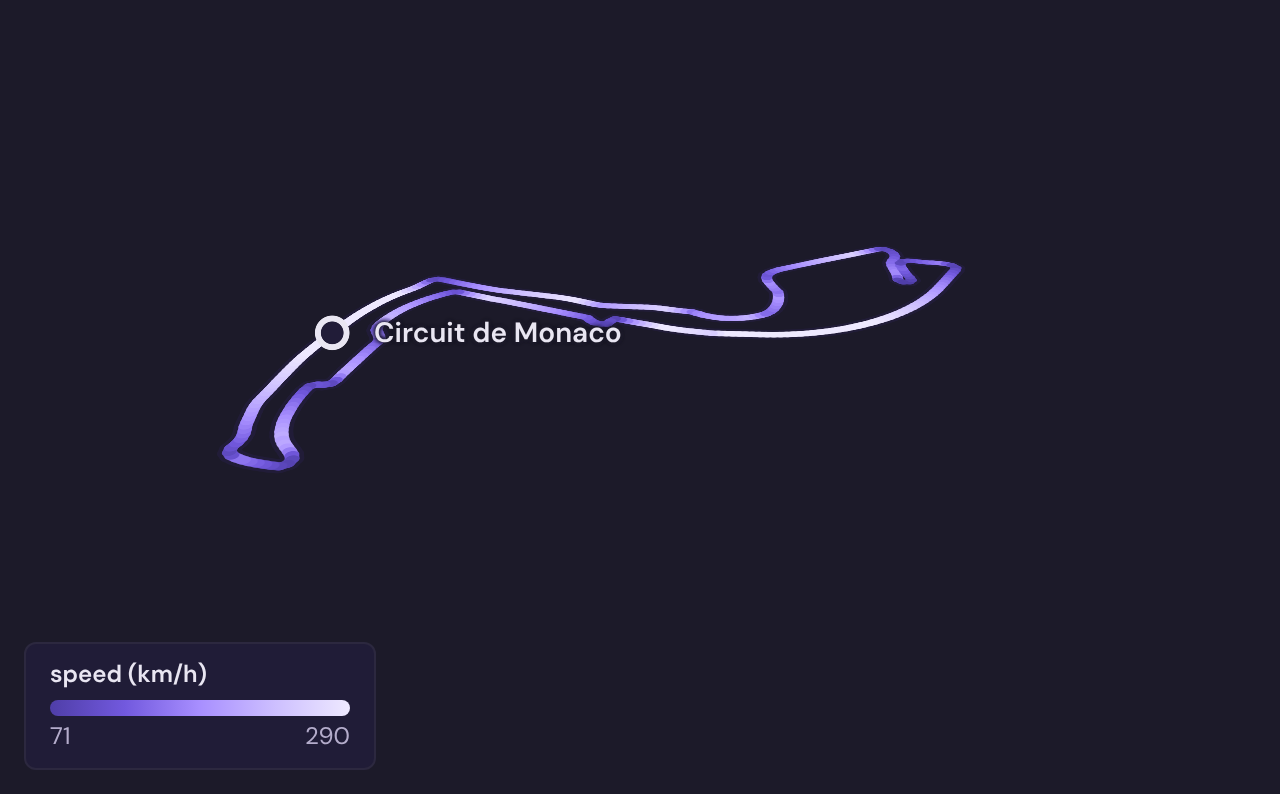
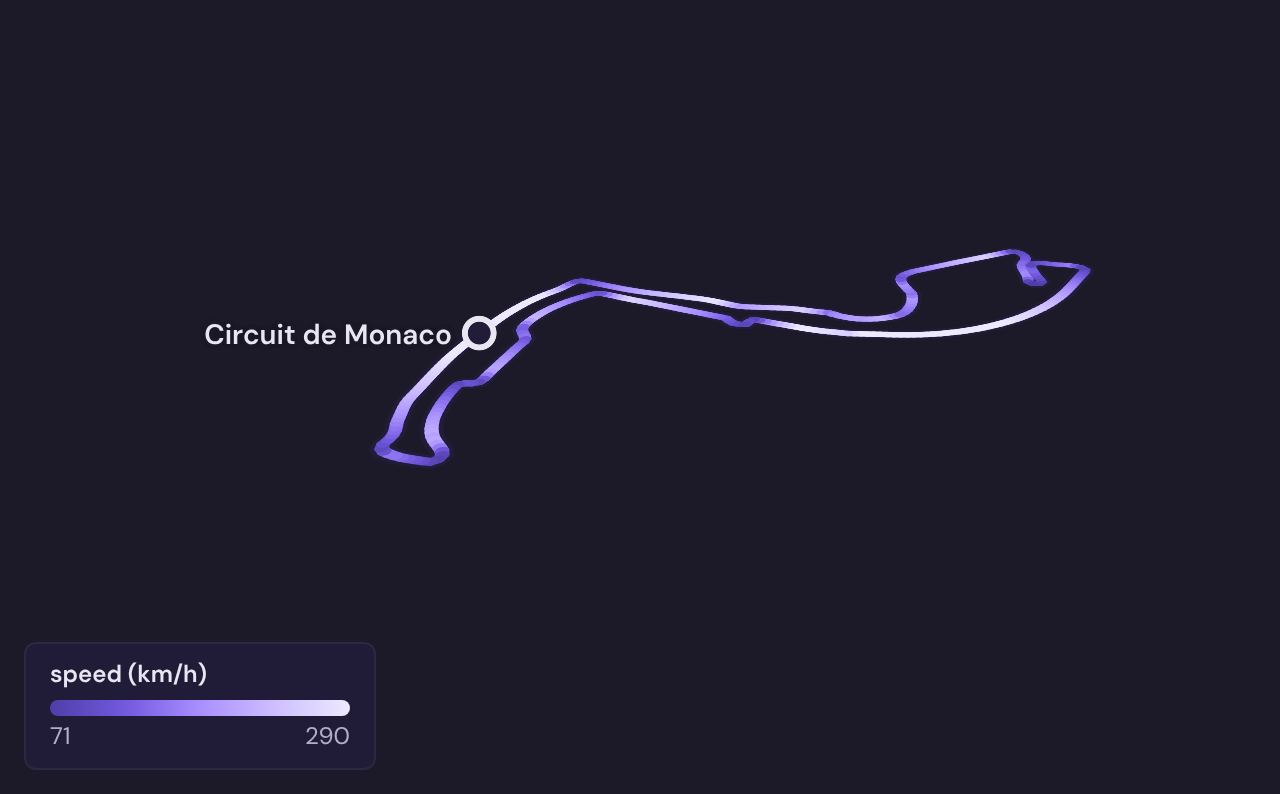
Polish: tooltip clear of the marks, volume label clear of the price axis, path names off the path

Changed region(s): [[0.1562, 0.3023, 0.875, 0.6045]]

diff --git a/src/path-on-map/model.ts b/src/path-on-map/model.ts
@@ -102,10 +102,38 @@ export function colourOf(p: Paths, theme: Theme): (v: number | null | undefined)
 }
 
 type Line = Feature<LineString, { g: number; c: string }>;
-type Start = Feature<Point, { g: number; label: string }>;
+type Start = Feature<Point, { g: number; label: string; anchor: LabelAnchor; offset: [number, number] }>;
+
+export type LabelAnchor = "left" | "right" | "top" | "bottom";
+
+/**
+ * Where a path's name goes beside its start marker: off the path, not on it. The label sits
+ * across the path's direction at the start (it runs along the line there), on the side away
+ * from the middle of all its points (outside a lap's loop, beside a route), in the screen's
+ * axes at the camera's bearing. `offset` is in ems from the start, the way MapLibre's text-offset
+ * reads it (x right, y down); `anchor` is the side of the label that faces the start.
+ */
+export function labelPlacement(points: readonly LonLat[], bearing: number): { anchor: LabelAnchor; offset: [number, number] } {
+  const r = (bearing * Math.PI) / 180;
+  const screen = (p: LonLat) => { const [x, y] = mercator(p); return [x * Math.cos(r) + y * Math.sin(r), -x * Math.sin(r) + y * Math.cos(r)] as const; };
+  const s = points.map(screen);
+  const [x0, y0] = s[0]!;
+  // The direction at the start: towards the first point a little way along (a twentieth of the points, at least the next).
+  const [x1, y1] = s[Math.min(s.length - 1, Math.max(1, Math.floor(s.length / 20)))]!;
+  let [dx, dy] = [x1 - x0, y1 - y0];
+  const len = Math.hypot(dx, dy) || 1;
+  [dx, dy] = [dx / len, dy / len];
+  // Across it, towards the side away from the points' middle.
+  const cx = s.reduce((a, p) => a + p[0], 0) / s.length - x0, cy = s.reduce((a, p) => a + p[1], 0) / s.length - y0;
+  let [nx, ny] = [-dy, dx];
+  if (nx * cx + ny * cy > 0) [nx, ny] = [-nx, -ny];
+  const o = MEASURES.labelOffset;
+  if (Math.abs(nx) >= Math.abs(ny)) return nx > 0 ? { anchor: "left", offset: [o, 0] } : { anchor: "right", offset: [-o, 0] };
+  return ny > 0 ? { anchor: "top", offset: [0, o] } : { anchor: "bottom", offset: [0, -o] };
+}
 
 /** The GeoJSON drawn: one line per segment (consecutive points), coloured by its start point's value; one start per path. */
-export function pathFeatures(p: Paths, theme: Theme): { segments: FeatureCollection<LineString, { g: number; c: string }>; starts: FeatureCollection<Point, { g: number; label: string }> } {
+export function pathFeatures(p: Paths, theme: Theme): { segments: FeatureCollection<LineString, { g: number; c: string }>; starts: FeatureCollection<Point, { g: number; label: string; anchor: LabelAnchor; offset: [number, number] }> } {
   const colour = colourOf(p, theme);
   const segments: Line[] = [];
   const starts: Start[] = [];
@@ -114,7 +142,7 @@ export function pathFeatures(p: Paths, theme: Theme): { segments: FeatureCollect
     for (let i = 1; i < points.length; i++) {
       segments.push({ type: "Feature", properties: { g, c: colour(values?.[i - 1]) }, geometry: { type: "LineString", coordinates: [[...points[i - 1]!], [...points[i]!]] } });
     }
-    starts.push({ type: "Feature", properties: { g, label: path.label ?? "" }, geometry: { type: "Point", coordinates: [...points[0]!] } });
+    starts.push({ type: "Feature", properties: { g, label: path.label ?? "", ...labelPlacement(points, p.options.bearing) }, geometry: { type: "Point", coordinates: [...points[0]!] } });
   });
   return { segments: { type: "FeatureCollection", features: segments }, starts: { type: "FeatureCollection", features: starts } };
 }
@@ -139,7 +167,7 @@ export function pathLayers(theme: Theme, options: PathOptions, labels = true): L
   ];
   if (labels) out.push({
     id: PATH_LAYERS.label, type: "symbol", source: PATH_SOURCES.starts,
-    layout: { "text-field": ["get", "label"], "text-font": [theme.font.map], "text-size": MEASURES.labelSize, "text-anchor": "left", "text-offset": [MEASURES.labelOffset, 0], "text-allow-overlap": true, "text-ignore-placement": false },
+    layout: { "text-field": ["get", "label"], "text-font": [theme.font.map], "text-size": MEASURES.labelSize, "text-anchor": ["get", "anchor"], "text-offset": ["get", "offset"], "text-allow-overlap": true, "text-ignore-placement": false },
     paint: { "text-color": c.ink, "text-halo-color": c.halo, "text-halo-width": MEASURES.labelHalo },
   });
   return out;

diff --git a/src/path-on-map/draw.ts b/src/path-on-map/draw.ts
@@ -9,7 +9,7 @@
 import type { GeoJSONSource, Map as MapLibreMap, Marker as MapLibreMarker } from "maplibre-gl";
 import { validate } from "../validate.ts";
 import type { Theme, ViewError } from "../types.ts";
-import { allPoints, buildingsLayer, frameCamera, legendOf, MEASURES, PATH_LAYERS, PATH_SOURCES, pathColours, pathFeatures, pathLayers, type Insets, type PathOnMapData, type PathOptions, type Paths } from "./model.ts";
+import { allPoints, buildingsLayer, frameCamera, labelPlacement, legendOf, MEASURES, PATH_LAYERS, PATH_SOURCES, pathColours, pathFeatures, pathLayers, type Insets, type PathOnMapData, type PathOptions, type Paths } from "./model.ts";
 
 /** Thrown by drawPaths when the input doesn't meet the contract: nothing on the map has changed. */
 export class PathInputError extends Error {
@@ -109,6 +109,8 @@ export function drawChecked(map: MapLibreMap, p: Paths, context: DrawContext): D
   const glyphs = Boolean(map.getStyle().glyphs);
   for (const layer of pathLayers(theme, p.options, glyphs)) map.addLayer(layer);
   const markers: MapLibreMarker[] = [];
+  // Room the HTML labels need beside their starts, per side, so framing keeps them on the map.
+  const room = { top: 0, right: 0, bottom: 0, left: 0 };
   if (!glyphs && context.Marker) {
     const c = pathColours(theme);
     for (const path of p.paths) {
@@ -118,8 +120,14 @@ export function drawChecked(map: MapLibreMap, p: Paths, context: DrawContext): D
       label.textContent = path.label;
       label.style.color = c.ink;
       label.style.setProperty("--zc-halo", c.halo);
-      label.style.marginLeft = `${Math.max(MEASURES.markerMin, p.options.lineWidth) + MEASURES.labelOffset * MEASURES.labelSize}px`;
-      markers.push(new context.Marker({ element: label, anchor: "left", pitchAlignment: "viewport", rotationAlignment: "viewport" }).setLngLat([path.points[0]![0], path.points[0]![1]]).addTo(map));
+      // Off the path, beside the start marker (labelPlacement): the same side the symbol layer uses.
+      const at = labelPlacement(path.points, p.options.bearing);
+      const gap = Math.max(MEASURES.markerMin, p.options.lineWidth) + MEASURES.labelOffset * MEASURES.labelSize / 2;
+      const offset: [number, number] = [Math.sign(at.offset[0]) * gap, Math.sign(at.offset[1]) * gap];
+      markers.push(new context.Marker({ element: label, anchor: at.anchor, offset, pitchAlignment: "viewport", rotationAlignment: "viewport" }).setLngLat([path.points[0]![0], path.points[0]![1]]).addTo(map));
+      const need = { w: label.offsetWidth + gap, h: label.offsetHeight + gap };
+      const side = ({ left: "right", right: "left", top: "bottom", bottom: "top" } as const)[at.anchor];
+      room[side] = Math.max(room[side], side === "left" || side === "right" ? need.w : need.h);
     }
   }
   drawn.set(map, { markers, cls });
@@ -129,7 +137,8 @@ export function drawChecked(map: MapLibreMap, p: Paths, context: DrawContext): D
     const given = context.insets ?? { top: 0, right: 0, bottom: 0, left: 0 };
     // On a small map (a chat column) the legend would cover the path's bottom: frame above it.
     const box = el.querySelector<HTMLElement>(`:scope > .${cls}`);
-    const insets = box && el.clientHeight < 600 ? { ...given, bottom: Math.max(given.bottom, el.clientHeight - box.offsetTop - MEASURES.frame / 2) } : given;
+    const legendBottom = box && el.clientHeight < 600 ? el.clientHeight - box.offsetTop - MEASURES.frame / 2 : 0;
+    const insets = { top: Math.max(given.top, room.top), right: Math.max(given.right, room.right), bottom: Math.max(given.bottom, legendBottom, room.bottom), left: Math.max(given.left, room.left) };
     const camera = frameCamera(allPoints(p), { width: el.clientWidth, height: el.clientHeight }, p.options, insets);
     map.jumpTo({ ...camera, padding: insets });
   }

diff --git a/src/render.test.ts b/src/render.test.ts
@@ -102,3 +102,23 @@ test("path-on-map: the model draws segments in the theme's ramp", () => {
   assert.notEqual(pom.pathFeatures(v.view.paths, dark).segments.features[0]!.properties.c, f.segments.features[0]!.properties.c);
   assert.equal(pom.pathFeatures(v.view.paths, theme("zega", "light")).segments.features[0]!.properties.c, theme("zega", "light").sequential[0]);
 });
+
+test("path-on-map: the name goes across the path at its start, away from the rest of it", () => {
+  // Heading east, the rest of the route to the north-east: the label goes below (anchor top), off the line.
+  assert.deepEqual(pom.labelPlacement([[0, 0], [1, 0], [2, 1]], 0), { anchor: "top", offset: [0, pom.MEASURES.labelOffset] });
+  // Heading north with the route bending west: the label goes east (anchor left).
+  assert.deepEqual(pom.labelPlacement([[0, 0], [0, 1], [-1, 2]], 0), { anchor: "left", offset: [pom.MEASURES.labelOffset, 0] });
+  // Facing east (bearing 90), east is up the screen and north to the left: the label goes right of the start.
+  assert.equal(pom.labelPlacement([[0, 0], [1, 0], [2, 1]], 90).anchor, "left");
+  // And the symbol layer reads it per path.
+  const layer = pom.pathLayers(ava, { colorScale: "solid", valueUnit: null, lineWidth: 6, view: "2d", bearing: 0, showBuildings: false, bounds: null }).at(-1)!;
+  assert.deepEqual((layer as { layout: Record<string, unknown> }).layout["text-anchor"], ["get", "anchor"]);
+});
+
+test("price-chart: no price label crowds the volume band's label", () => {
+  const pts = Array.from({ length: 30 }, (_, i) => ({ t: `2026-10-${String(i + 1).padStart(2, "0")}`, o: 50 + i / 10, h: 51 + i / 10, l: 49 + i / 10, c: 50.5 + i / 10, v: 1e6 + i * 1e4 }));
+  const r = draw({ component: "price-chart", data: { series: [{ points: pts }] }, options: { kind: "candle", volume: true } });
+  const texts = all(r.svg, (n) => n.tag === "text" && Number(n.attrs.x) > r.width - 80);
+  const vol = texts.find((t) => /M$/.test(String(t.children[0])))!;
+  for (const t of texts) if (t !== vol) assert.ok(Math.abs(Number(t.attrs.y) - Number(vol.attrs.y)) >= 16, `${t.children[0]} at ${t.attrs.y} vs ${vol.attrs.y}`);
+});

diff --git a/src/price-chart.ts b/src/price-chart.ts
@@ -111,7 +111,9 @@ export function render(data: PriceChartData, options: PriceChartOptions, ctx: Re
   // Grid, price axis at the right, time axis at the bottom.
   const grid = yTicks.map((t) => el("line", { x1: left, x2: right, y1: sy(t), y2: sy(t), stroke: theme.rule, "stroke-width": 1 }));
   const lastY = sy(last.c);
-  const yLabels = yTicks.filter((t) => Math.abs(sy(t) - lastY) > 14).map((t) => el("text", { x: right + 8, y: sy(t) + 4, "font-size": TYPE.tick, fill: theme.soft, "font-family": font }, priceText(t)));
+  // Price labels keep clear of the last price and of the volume band's own label (its maximum) below them.
+  const volLabelY = volH ? plotBottomGuess - volH + 10 : null;
+  const yLabels = yTicks.filter((t) => Math.abs(sy(t) - lastY) > 14 && (volLabelY === null || volLabelY - (sy(t) + 4) > 16)).map((t) => el("text", { x: right + 8, y: sy(t) + 4, "font-size": TYPE.tick, fill: theme.soft, "font-family": font }, priceText(t)));
   const tTicks = timeTicks(t0, t1, Math.max(2, Math.floor((right - left) / 76)), locale);
   const tickX = (t: number) => {
     if (!xAt) return sx(t);
@@ -181,7 +183,7 @@ export function render(data: PriceChartData, options: PriceChartOptions, ctx: Re
       volume.push(el("rect", { x: x - w / 2, y: vy(r.v ?? 0), width: w, height: Math.max(0.5, plotBottomGuess - vy(r.v ?? 0)), fill: withAlpha(rising ? theme.up : theme.down, 0.45), "data-part": "volume" }));
     });
     volume.push(el("line", { x1: left, x2: right, y1: plotBottomGuess, y2: plotBottomGuess, stroke: theme.axis, "stroke-width": 1 }));
-    volume.push(el("text", { x: right + 8, y: plotBottomGuess - volH + 10, "font-size": TYPE.small, fill: theme.soft, "font-family": font }, formatNumber(vmax, locale, { compact: true })));
+    volume.push(el("text", { x: right + 8, y: volLabelY!, "font-size": TYPE.small, fill: theme.soft, "font-family": font }, formatNumber(vmax, locale, { compact: true })));
   }
 
   // Annotations: a dashed rule from the moment's point up to its label, labels staggered so they don't overlap.

diff --git a/src/hover.ts b/src/hover.ts
@@ -87,13 +87,20 @@ export function attachHover(svg: SVGSVGElement, hover: Hover, theme: Theme, loca
     const box = svg.getBoundingClientRect(), hostBox = host.getBoundingClientRect();
     const scale = box.width / (svg.viewBox.baseVal?.width || box.width || 1) || 1;
     const offsetLeft = box.left - hostBox.left, offsetTop = box.top - hostBox.top;
-    const w = tip.offsetWidth;
+    const w = tip.offsetWidth, h = tip.offsetHeight;
     const width = host.clientWidth;
     const x = col.x * scale + offsetLeft;
     let left = x + 12;
     if (left + w > width) left = x - 12 - w;
     left = Math.max(0, Math.min(width - w, left));
-    tip.style.transform = `translate(${Math.round(left)}px, ${Math.round(hover.plot.y * scale + offsetTop)}px)`;
+    // Vertically, inside the plot and away from the marks it describes: at the plot's top when
+    // they're low, at its bottom when they're high, so the tooltip never sits on the data under the pointer.
+    const plotTop = hover.plot.y * scale + offsetTop, plotBottom = (hover.plot.y + hover.plot.height) * scale + offsetTop;
+    const ys = col.rows.flatMap((r) => (r.y === undefined ? [] : [r.y * scale + offsetTop]));
+    const marksTop = ys.length ? Math.min(...ys) : plotBottom, marksBottom = ys.length ? Math.max(...ys) : plotTop;
+    const roomAbove = marksTop - plotTop, roomBelow = plotBottom - marksBottom;
+    const top = roomAbove >= roomBelow ? plotTop : Math.max(plotTop, plotBottom - h);
+    tip.style.transform = `translate(${Math.round(left)}px, ${Math.round(top)}px)`;
   };
   const hide = () => { at = -1; layer.setAttribute("visibility", "hidden"); tip.style.visibility = "hidden"; };
   const nearest = (clientX: number) => {
